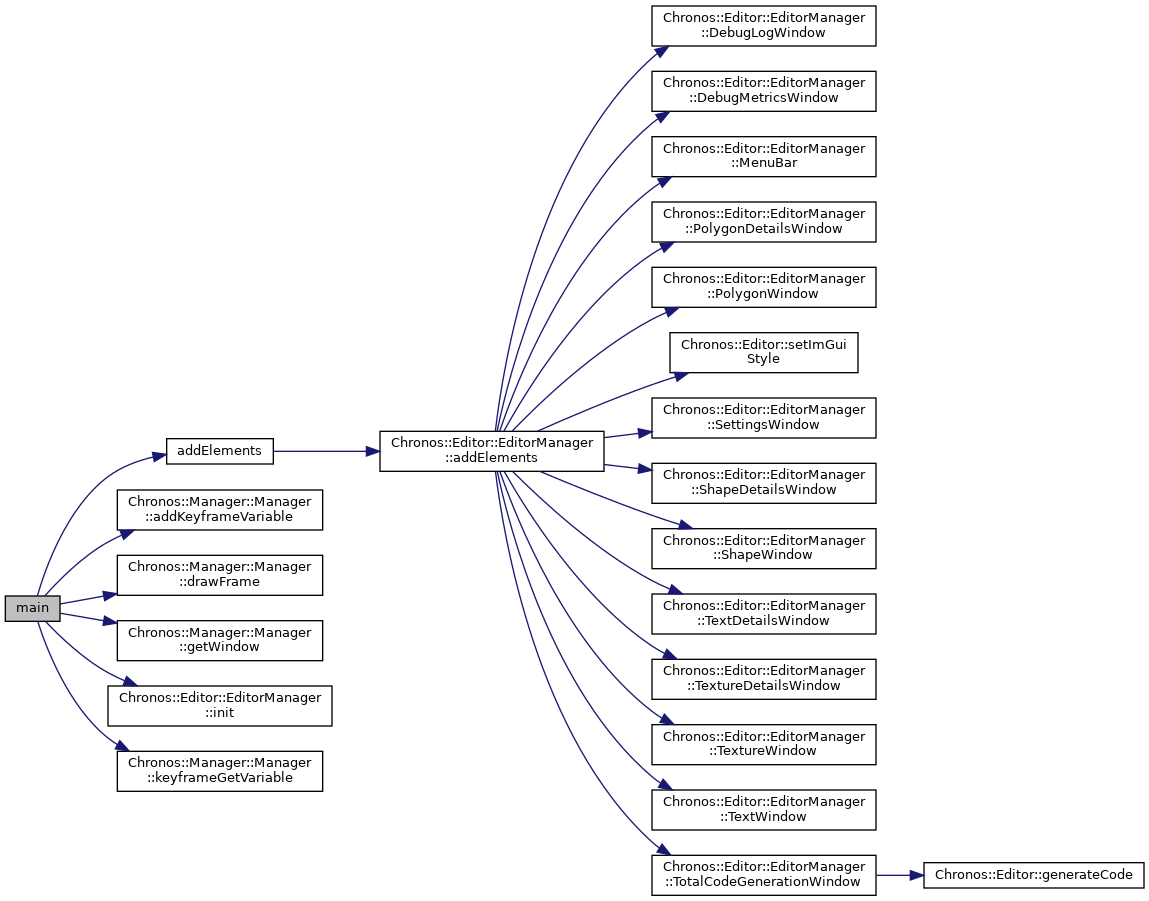
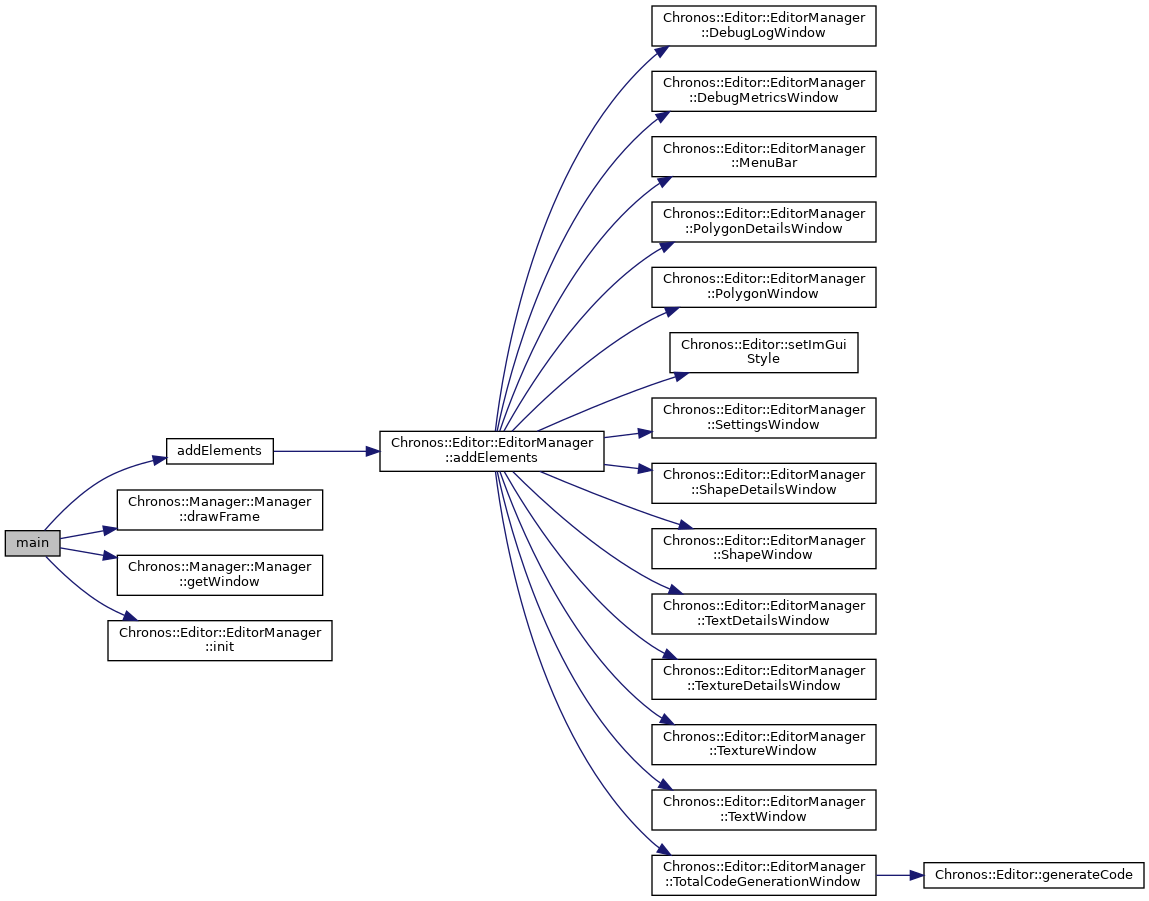
Deploying to gh-pages from @ RahulVadhyar/Chronos@b8f543d790779504aa7e0f5da477bdf2bd4c3c95 🚀

diff --git a/editorMain_8cpp.html b/editorMain_8cpp.html
@@ -256,26 +256,16 @@ Here is the caller graph for this function:</div>
 <div class="line"><a name="l00043"></a><span class="lineno">   43</span>&#160;    <a class="code" href="editorMain_8cpp.html#a13d1c6300fe3c9fe31eebe196e35cd71">editorManager</a>.init(&amp;manager);</div>
 <div class="line"><a name="l00044"></a><span class="lineno">   44</span>&#160;    <a class="code" href="logging_8hpp.html#a5b58fc422e0e0d9227a7ef69954b689a">LOG</a>(3, &quot;EditorMain&quot;, &quot;EditorManager created.&quot;)</div>
 <div class="line"><a name="l00045"></a><span class="lineno">   45</span>&#160; </div>
-<div class="line"><a name="l00046"></a><span class="lineno">   46</span>&#160;    std::vector&lt;std::pair&lt;<span class="keywordtype">float</span>, <span class="keywordtype">float</span>&gt;&gt; keyframes;</div>
-<div class="line"><a name="l00047"></a><span class="lineno">   47</span>&#160;    keyframes.push_back(std::make_pair(0, 300));</div>
-<div class="line"><a name="l00048"></a><span class="lineno">   48</span>&#160;    keyframes.push_back(std::make_pair(1.0, 500));</div>
-<div class="line"><a name="l00049"></a><span class="lineno">   49</span>&#160;    keyframes.push_back(std::make_pair(2.0, 450));</div>
-<div class="line"><a name="l00050"></a><span class="lineno">   50</span>&#160;    keyframes.push_back(std::make_pair(3.0, 300));</div>
-<div class="line"><a name="l00051"></a><span class="lineno">   51</span>&#160; </div>
-<div class="line"><a name="l00052"></a><span class="lineno">   52</span>&#160;    <span class="keywordtype">int</span> keyframeNo = manager.addKeyframeVariable(keyframes);</div>
-<div class="line"><a name="l00053"></a><span class="lineno">   53</span>&#160; </div>
-<div class="line"><a name="l00054"></a><span class="lineno">   54</span>&#160;    while (!glfwWindowShouldClose(manager.getWindow())) {</div>
-<div class="line"><a name="l00055"></a><span class="lineno">   55</span>&#160;        <span class="keywordflow">if</span> (glfwGetKey(manager.getWindow(), GLFW_KEY_ESCAPE) == GLFW_PRESS) {</div>
-<div class="line"><a name="l00056"></a><span class="lineno">   56</span>&#160;            glfwSetWindowShouldClose(manager.getWindow(), <span class="keyword">true</span>);</div>
-<div class="line"><a name="l00057"></a><span class="lineno">   57</span>&#160;        }</div>
-<div class="line"><a name="l00058"></a><span class="lineno">   58</span>&#160;        manager.drawFrame();</div>
-<div class="line"><a name="l00059"></a><span class="lineno">   59</span>&#160;        <a class="code" href="logging_8hpp.html#a5b58fc422e0e0d9227a7ef69954b689a">LOG</a>(4, <span class="stringliteral">&quot;EditorMain&quot;</span>, <span class="stringliteral">&quot;Frame drawn.&quot;</span>)</div>
-<div class="line"><a name="l00060"></a><span class="lineno">   60</span>&#160; </div>
-<div class="line"><a name="l00061"></a><span class="lineno">   61</span>&#160;        <a class="code" href="logging_8hpp.html#a5b58fc422e0e0d9227a7ef69954b689a">LOG</a>(3, &quot;TEST&quot;, &quot;Keyframe value: &quot; + std::to_string(manager.keyframeGetVariable(keyframeNo)));</div>
-<div class="line"><a name="l00062"></a><span class="lineno">   62</span>&#160;    }</div>
-<div class="line"><a name="l00063"></a><span class="lineno">   63</span>&#160;    <a class="code" href="logging_8hpp.html#a5b58fc422e0e0d9227a7ef69954b689a">LOG</a>(2, &quot;EditorMain&quot;, &quot;Exited rendering loop, closing program.&quot;)</div>
-<div class="line"><a name="l00064"></a><span class="lineno">   64</span>&#160;    return 0; </div>
-<div class="line"><a name="l00065"></a><span class="lineno">   65</span>&#160;}</div>
+<div class="line"><a name="l00046"></a><span class="lineno">   46</span>&#160;    while (!glfwWindowShouldClose(manager.getWindow())) {</div>
+<div class="line"><a name="l00047"></a><span class="lineno">   47</span>&#160;        <span class="keywordflow">if</span> (glfwGetKey(manager.getWindow(), GLFW_KEY_ESCAPE) == GLFW_PRESS) {</div>
+<div class="line"><a name="l00048"></a><span class="lineno">   48</span>&#160;            glfwSetWindowShouldClose(manager.getWindow(), <span class="keyword">true</span>);</div>
+<div class="line"><a name="l00049"></a><span class="lineno">   49</span>&#160;        }</div>
+<div class="line"><a name="l00050"></a><span class="lineno">   50</span>&#160;        manager.drawFrame();</div>
+<div class="line"><a name="l00051"></a><span class="lineno">   51</span>&#160;        <a class="code" href="logging_8hpp.html#a5b58fc422e0e0d9227a7ef69954b689a">LOG</a>(4, <span class="stringliteral">&quot;EditorMain&quot;</span>, <span class="stringliteral">&quot;Frame drawn.&quot;</span>)</div>
+<div class="line"><a name="l00052"></a><span class="lineno">   52</span>&#160;    }</div>
+<div class="line"><a name="l00053"></a><span class="lineno">   53</span>&#160;    <a class="code" href="logging_8hpp.html#a5b58fc422e0e0d9227a7ef69954b689a">LOG</a>(2, <span class="stringliteral">&quot;EditorMain&quot;</span>, <span class="stringliteral">&quot;Exited rendering loop, closing program.&quot;</span>)</div>
+<div class="line"><a name="l00054"></a><span class="lineno">   54</span>&#160;    return 0; </div>
+<div class="line"><a name="l00055"></a><span class="lineno">   55</span>&#160;}</div>
 <div class="ttc" id="aclassChronos_1_1Manager_1_1Manager_html"><div class="ttname"><a href="classChronos_1_1Manager_1_1Manager.html">Chronos::Manager::Manager</a></div><div class="ttdoc">The main manager of chronos.</div><div class="ttdef"><b>Definition:</b> <a href="chronos_8hpp_source.html#l00138">chronos.hpp:138</a></div></div>
 <div class="ttc" id="aeditorMain_8cpp_html_a6a215dd7e7955739c214ee50e9b9ad87"><div class="ttname"><a href="editorMain_8cpp.html#a6a215dd7e7955739c214ee50e9b9ad87">addElements</a></div><div class="ttdeci">void addElements()</div><div class="ttdef"><b>Definition:</b> <a href="editorMain_8cpp_source.html#l00028">editorMain.cpp:28</a></div></div>
 <div class="ttc" id="alogging_8hpp_html_a5b58fc422e0e0d9227a7ef69954b689a"><div class="ttname"><a href="logging_8hpp.html#a5b58fc422e0e0d9227a7ef69954b689a">LOG</a></div><div class="ttdeci">#define LOG(LEVEL, CLASS, MESSAGE)</div><div class="ttdef"><b>Definition:</b> <a href="logging_8hpp_source.html#l00035">logging.hpp:35</a></div></div>
@@ -284,19 +274,17 @@ Here is the caller graph for this function:</div>
 <div class="ttc" id="astructChronos_1_1Manager_1_1Initializer_html_a6e5b05085029f176abc15e6338217dbc"><div class="ttname"><a href="structChronos_1_1Manager_1_1Initializer.html#a6e5b05085029f176abc15e6338217dbc">Chronos::Manager::Initializer::WindowWidth</a></div><div class="ttdeci">int WindowWidth</div><div class="ttdef"><b>Definition:</b> <a href="chronos_8hpp_source.html#l00066">chronos.hpp:66</a></div></div>
 <div class="ttc" id="astructChronos_1_1Manager_1_1Initializer_html_ab66ebfa962b94ea624394f3436bb6570"><div class="ttname"><a href="structChronos_1_1Manager_1_1Initializer.html#ab66ebfa962b94ea624394f3436bb6570">Chronos::Manager::Initializer::BackgroundColor</a></div><div class="ttdeci">int BackgroundColor[3]</div><div class="ttdef"><b>Definition:</b> <a href="chronos_8hpp_source.html#l00068">chronos.hpp:68</a></div></div>
 </div><!-- fragment -->
-<p class="reference">References <a class="el" href="editorMain_8cpp_source.html#l00028">addElements()</a>, <a class="el" href="chronos_8hpp_source.html#l00527">Chronos::Manager::Manager::addKeyframeVariable()</a>, <a class="el" href="chronos_8hpp_source.html#l00068">Chronos::Manager::Initializer::BackgroundColor</a>, <a class="el" href="manager_8cpp_source.html#l00054">Chronos::Manager::Manager::drawFrame()</a>, <a class="el" href="editorMain_8cpp_source.html#l00026">editorManager</a>, <a class="el" href="manager_8cpp_source.html#l00027">Chronos::Manager::Manager::getWindow()</a>, <a class="el" href="editorManager_8hpp_source.html#l00029">Chronos::Editor::EditorManager::init()</a>, <a class="el" href="chronos_8hpp_source.html#l00551">Chronos::Manager::Manager::keyframeGetVariable()</a>, <a class="el" href="logging_8hpp_source.html#l00035">LOG</a>, <a class="el" href="chronos_8hpp_source.html#l00067">Chronos::Manager::Initializer::WindowHeight</a>, and <a class="el" href="chronos_8hpp_source.html#l00066">Chronos::Manager::Initializer::WindowWidth</a>.</p>
+<p class="reference">References <a class="el" href="editorMain_8cpp_source.html#l00028">addElements()</a>, <a class="el" href="chronos_8hpp_source.html#l00068">Chronos::Manager::Initializer::BackgroundColor</a>, <a class="el" href="manager_8cpp_source.html#l00054">Chronos::Manager::Manager::drawFrame()</a>, <a class="el" href="editorMain_8cpp_source.html#l00026">editorManager</a>, <a class="el" href="manager_8cpp_source.html#l00027">Chronos::Manager::Manager::getWindow()</a>, <a class="el" href="editorManager_8hpp_source.html#l00029">Chronos::Editor::EditorManager::init()</a>, <a class="el" href="logging_8hpp_source.html#l00035">LOG</a>, <a class="el" href="chronos_8hpp_source.html#l00067">Chronos::Manager::Initializer::WindowHeight</a>, and <a class="el" href="chronos_8hpp_source.html#l00066">Chronos::Manager::Initializer::WindowWidth</a>.</p>
 <div class="dynheader">
 Here is the call graph for this function:</div>
 <div class="dyncontent">
 <div class="center"><img src="editorMain_8cpp_ae66f6b31b5ad750f1fe042a706a4e3d4_cgraph.png" border="0" usemap="#aeditorMain_8cpp_ae66f6b31b5ad750f1fe042a706a4e3d4_cgraph" alt=""/></div>
 <map name="aeditorMain_8cpp_ae66f6b31b5ad750f1fe042a706a4e3d4_cgraph" id="aeditorMain_8cpp_ae66f6b31b5ad750f1fe042a706a4e3d4_cgraph">
-<area shape="rect" title=" " alt="" coords="5,595,60,622"/>
+<area shape="rect" title=" " alt="" coords="5,530,60,557"/>
 <area shape="rect" href="editorMain_8cpp.html#a6a215dd7e7955739c214ee50e9b9ad87" title=" " alt="" coords="167,438,273,465"/>
-<area shape="rect" href="classChronos_1_1Manager_1_1Manager.html#a70d885cb88ec2bf1cd12e62c5c0d4ce7" title=" " alt="" coords="117,489,323,531"/>
-<area shape="rect" href="classChronos_1_1Manager_1_1Manager.html#a633479d3104552a11a4546cbb048b8f8" title="Draws the current frame to the window." alt="" coords="117,555,323,596"/>
-<area shape="rect" href="classChronos_1_1Manager_1_1Manager.html#a248fdc281a1b24ee47fd605ba6c7cd70" title="Gets a reference to the GLFWWindow." alt="" coords="117,620,323,661"/>
-<area shape="rect" href="classChronos_1_1Editor_1_1EditorManager.html#ae28f6a26ba542f66491d5326ad1c7f79" title=" " alt="" coords="108,685,332,727"/>
-<area shape="rect" href="classChronos_1_1Manager_1_1Manager.html#ab4195e415b5ecf1d027da6d138401d20" title=" " alt="" coords="117,751,323,792"/>
+<area shape="rect" href="classChronos_1_1Manager_1_1Manager.html#a633479d3104552a11a4546cbb048b8f8" title="Draws the current frame to the window." alt="" coords="117,489,323,531"/>
+<area shape="rect" href="classChronos_1_1Manager_1_1Manager.html#a248fdc281a1b24ee47fd605ba6c7cd70" title="Gets a reference to the GLFWWindow." alt="" coords="117,555,323,596"/>
+<area shape="rect" href="classChronos_1_1Editor_1_1EditorManager.html#ae28f6a26ba542f66491d5326ad1c7f79" title=" " alt="" coords="108,620,332,661"/>
 <area shape="rect" href="classChronos_1_1Editor_1_1EditorManager.html#a0a83d9d068c5ba9313ee98d5062b469d" title=" " alt="" coords="380,431,604,472"/>
 <area shape="rect" href="classChronos_1_1Editor_1_1EditorManager.html#a9af7c4fe35cefbce32f8aab29442dde8" title=" " alt="" coords="652,5,876,47"/>
 <area shape="rect" href="classChronos_1_1Editor_1_1EditorManager.html#a06155e374e7589b9510f6f9284047920" title=" " alt="" coords="652,71,876,112"/>

diff --git a/editorMain_8cpp_source.html b/editorMain_8cpp_source.html
@@ -133,26 +133,16 @@ $(document).ready(function(){initNavTree('editorMain_8cpp_source.html',''); init
 <div class="line"><a name="l00043"></a><span class="lineno">   43</span>&#160;    <a class="code" href="editorMain_8cpp.html#a13d1c6300fe3c9fe31eebe196e35cd71">editorManager</a>.<a class="code" href="classChronos_1_1Editor_1_1EditorManager.html#ae28f6a26ba542f66491d5326ad1c7f79">init</a>(&amp;manager);</div>
 <div class="line"><a name="l00044"></a><span class="lineno">   44</span>&#160;    <a class="code" href="logging_8hpp.html#a5b58fc422e0e0d9227a7ef69954b689a">LOG</a>(3, <span class="stringliteral">&quot;EditorMain&quot;</span>, <span class="stringliteral">&quot;EditorManager created.&quot;</span>)</div>
 <div class="line"><a name="l00045"></a><span class="lineno">   45</span>&#160; </div>
-<div class="line"><a name="l00046"></a><span class="lineno">   46</span>&#160;    std::vector&lt;std::pair&lt;float, float&gt;&gt; keyframes;</div>
-<div class="line"><a name="l00047"></a><span class="lineno">   47</span>&#160;    keyframes.push_back(std::make_pair(0, 300));</div>
-<div class="line"><a name="l00048"></a><span class="lineno">   48</span>&#160;    keyframes.push_back(std::make_pair(1.0, 500));</div>
-<div class="line"><a name="l00049"></a><span class="lineno">   49</span>&#160;    keyframes.push_back(std::make_pair(2.0, 450));</div>
-<div class="line"><a name="l00050"></a><span class="lineno">   50</span>&#160;    keyframes.push_back(std::make_pair(3.0, 300));</div>
-<div class="line"><a name="l00051"></a><span class="lineno">   51</span>&#160; </div>
-<div class="line"><a name="l00052"></a><span class="lineno">   52</span>&#160;    <span class="keywordtype">int</span> keyframeNo = manager.<a class="code" href="classChronos_1_1Manager_1_1Manager.html#a70d885cb88ec2bf1cd12e62c5c0d4ce7">addKeyframeVariable</a>(keyframes);</div>
-<div class="line"><a name="l00053"></a><span class="lineno">   53</span>&#160; </div>
-<div class="line"><a name="l00054"></a><span class="lineno">   54</span>&#160;    <span class="keywordflow">while</span> (!glfwWindowShouldClose(manager.<a class="code" href="classChronos_1_1Manager_1_1Manager.html#a248fdc281a1b24ee47fd605ba6c7cd70">getWindow</a>())) {</div>
-<div class="line"><a name="l00055"></a><span class="lineno">   55</span>&#160;        <span class="keywordflow">if</span> (glfwGetKey(manager.<a class="code" href="classChronos_1_1Manager_1_1Manager.html#a248fdc281a1b24ee47fd605ba6c7cd70">getWindow</a>(), GLFW_KEY_ESCAPE) == GLFW_PRESS) {</div>
-<div class="line"><a name="l00056"></a><span class="lineno">   56</span>&#160;            glfwSetWindowShouldClose(manager.<a class="code" href="classChronos_1_1Manager_1_1Manager.html#a248fdc281a1b24ee47fd605ba6c7cd70">getWindow</a>(), <span class="keyword">true</span>);</div>
-<div class="line"><a name="l00057"></a><span class="lineno">   57</span>&#160;        }</div>
-<div class="line"><a name="l00058"></a><span class="lineno">   58</span>&#160;        manager.<a class="code" href="classChronos_1_1Manager_1_1Manager.html#a633479d3104552a11a4546cbb048b8f8">drawFrame</a>();</div>
-<div class="line"><a name="l00059"></a><span class="lineno">   59</span>&#160;        <a class="code" href="logging_8hpp.html#a5b58fc422e0e0d9227a7ef69954b689a">LOG</a>(4, <span class="stringliteral">&quot;EditorMain&quot;</span>, <span class="stringliteral">&quot;Frame drawn.&quot;</span>)</div>
-<div class="line"><a name="l00060"></a><span class="lineno">   60</span>&#160; </div>
-<div class="line"><a name="l00061"></a><span class="lineno">   61</span>&#160;        <a class="code" href="logging_8hpp.html#a5b58fc422e0e0d9227a7ef69954b689a">LOG</a>(3, <span class="stringliteral">&quot;TEST&quot;</span>, <span class="stringliteral">&quot;Keyframe value: &quot;</span> + std::to_string(manager.<a class="code" href="classChronos_1_1Manager_1_1Manager.html#ab4195e415b5ecf1d027da6d138401d20">keyframeGetVariable</a>(keyframeNo)));</div>
-<div class="line"><a name="l00062"></a><span class="lineno">   62</span>&#160;    }</div>
-<div class="line"><a name="l00063"></a><span class="lineno">   63</span>&#160;    <a class="code" href="logging_8hpp.html#a5b58fc422e0e0d9227a7ef69954b689a">LOG</a>(2, <span class="stringliteral">&quot;EditorMain&quot;</span>, <span class="stringliteral">&quot;Exited rendering loop, closing program.&quot;</span>)</div>
-<div class="line"><a name="l00064"></a><span class="lineno">   64</span>&#160;    <span class="keywordflow">return</span> 0; </div>
-<div class="line"><a name="l00065"></a><span class="lineno">   65</span>&#160;}</div>
+<div class="line"><a name="l00046"></a><span class="lineno">   46</span>&#160;    <span class="keywordflow">while</span> (!glfwWindowShouldClose(manager.<a class="code" href="classChronos_1_1Manager_1_1Manager.html#a248fdc281a1b24ee47fd605ba6c7cd70">getWindow</a>())) {</div>
+<div class="line"><a name="l00047"></a><span class="lineno">   47</span>&#160;        <span class="keywordflow">if</span> (glfwGetKey(manager.<a class="code" href="classChronos_1_1Manager_1_1Manager.html#a248fdc281a1b24ee47fd605ba6c7cd70">getWindow</a>(), GLFW_KEY_ESCAPE) == GLFW_PRESS) {</div>
+<div class="line"><a name="l00048"></a><span class="lineno">   48</span>&#160;            glfwSetWindowShouldClose(manager.<a class="code" href="classChronos_1_1Manager_1_1Manager.html#a248fdc281a1b24ee47fd605ba6c7cd70">getWindow</a>(), <span class="keyword">true</span>);</div>
+<div class="line"><a name="l00049"></a><span class="lineno">   49</span>&#160;        }</div>
+<div class="line"><a name="l00050"></a><span class="lineno">   50</span>&#160;        manager.<a class="code" href="classChronos_1_1Manager_1_1Manager.html#a633479d3104552a11a4546cbb048b8f8">drawFrame</a>();</div>
+<div class="line"><a name="l00051"></a><span class="lineno">   51</span>&#160;        <a class="code" href="logging_8hpp.html#a5b58fc422e0e0d9227a7ef69954b689a">LOG</a>(4, <span class="stringliteral">&quot;EditorMain&quot;</span>, <span class="stringliteral">&quot;Frame drawn.&quot;</span>)</div>
+<div class="line"><a name="l00052"></a><span class="lineno">   52</span>&#160;    }</div>
+<div class="line"><a name="l00053"></a><span class="lineno">   53</span>&#160;    <a class="code" href="logging_8hpp.html#a5b58fc422e0e0d9227a7ef69954b689a">LOG</a>(2, <span class="stringliteral">&quot;EditorMain&quot;</span>, <span class="stringliteral">&quot;Exited rendering loop, closing program.&quot;</span>)</div>
+<div class="line"><a name="l00054"></a><span class="lineno">   54</span>&#160;    <span class="keywordflow">return</span> 0; </div>
+<div class="line"><a name="l00055"></a><span class="lineno">   55</span>&#160;}</div>
 <div class="ttc" id="achronos_8hpp_html"><div class="ttname"><a href="chronos_8hpp.html">chronos.hpp</a></div><div class="ttdoc">Main API for chronos. Any applications should include this file.</div></div>
 <div class="ttc" id="aclassChronos_1_1Editor_1_1EditorManager_html"><div class="ttname"><a href="classChronos_1_1Editor_1_1EditorManager.html">Chronos::Editor::EditorManager</a></div><div class="ttdef"><b>Definition:</b> <a href="editorManager_8hpp_source.html#l00027">editorManager.hpp:27</a></div></div>
 <div class="ttc" id="aclassChronos_1_1Editor_1_1EditorManager_html_a0a83d9d068c5ba9313ee98d5062b469d"><div class="ttname"><a href="classChronos_1_1Editor_1_1EditorManager.html#a0a83d9d068c5ba9313ee98d5062b469d">Chronos::Editor::EditorManager::addElements</a></div><div class="ttdeci">void addElements()</div><div class="ttdef"><b>Definition:</b> <a href="editorManager_8cpp_source.html#l00030">editorManager.cpp:30</a></div></div>
@@ -160,8 +150,6 @@ $(document).ready(function(){initNavTree('editorMain_8cpp_source.html',''); init
 <div class="ttc" id="aclassChronos_1_1Manager_1_1Manager_html"><div class="ttname"><a href="classChronos_1_1Manager_1_1Manager.html">Chronos::Manager::Manager</a></div><div class="ttdoc">The main manager of chronos.</div><div class="ttdef"><b>Definition:</b> <a href="chronos_8hpp_source.html#l00138">chronos.hpp:138</a></div></div>
 <div class="ttc" id="aclassChronos_1_1Manager_1_1Manager_html_a248fdc281a1b24ee47fd605ba6c7cd70"><div class="ttname"><a href="classChronos_1_1Manager_1_1Manager.html#a248fdc281a1b24ee47fd605ba6c7cd70">Chronos::Manager::Manager::getWindow</a></div><div class="ttdeci">GLFWwindow * getWindow()</div><div class="ttdoc">Gets a reference to the GLFWWindow.</div><div class="ttdef"><b>Definition:</b> <a href="manager_8cpp_source.html#l00027">manager.cpp:27</a></div></div>
 <div class="ttc" id="aclassChronos_1_1Manager_1_1Manager_html_a633479d3104552a11a4546cbb048b8f8"><div class="ttname"><a href="classChronos_1_1Manager_1_1Manager.html#a633479d3104552a11a4546cbb048b8f8">Chronos::Manager::Manager::drawFrame</a></div><div class="ttdeci">void drawFrame()</div><div class="ttdoc">Draws the current frame to the window.</div><div class="ttdef"><b>Definition:</b> <a href="manager_8cpp_source.html#l00054">manager.cpp:54</a></div></div>
-<div class="ttc" id="aclassChronos_1_1Manager_1_1Manager_html_a70d885cb88ec2bf1cd12e62c5c0d4ce7"><div class="ttname"><a href="classChronos_1_1Manager_1_1Manager.html#a70d885cb88ec2bf1cd12e62c5c0d4ce7">Chronos::Manager::Manager::addKeyframeVariable</a></div><div class="ttdeci">int addKeyframeVariable(std::vector&lt; std::pair&lt; float, float &gt;&gt; keyframes)</div><div class="ttdef"><b>Definition:</b> <a href="chronos_8hpp_source.html#l00527">chronos.hpp:527</a></div></div>
-<div class="ttc" id="aclassChronos_1_1Manager_1_1Manager_html_ab4195e415b5ecf1d027da6d138401d20"><div class="ttname"><a href="classChronos_1_1Manager_1_1Manager.html#ab4195e415b5ecf1d027da6d138401d20">Chronos::Manager::Manager::keyframeGetVariable</a></div><div class="ttdeci">float keyframeGetVariable(int keyframeNo)</div><div class="ttdef"><b>Definition:</b> <a href="chronos_8hpp_source.html#l00551">chronos.hpp:551</a></div></div>
 <div class="ttc" id="aeditorMain_8cpp_html_a13d1c6300fe3c9fe31eebe196e35cd71"><div class="ttname"><a href="editorMain_8cpp.html#a13d1c6300fe3c9fe31eebe196e35cd71">editorManager</a></div><div class="ttdeci">Chronos::Editor::EditorManager editorManager</div><div class="ttdef"><b>Definition:</b> <a href="editorMain_8cpp_source.html#l00026">editorMain.cpp:26</a></div></div>
 <div class="ttc" id="aeditorMain_8cpp_html_a6a215dd7e7955739c214ee50e9b9ad87"><div class="ttname"><a href="editorMain_8cpp.html#a6a215dd7e7955739c214ee50e9b9ad87">addElements</a></div><div class="ttdeci">void addElements()</div><div class="ttdef"><b>Definition:</b> <a href="editorMain_8cpp_source.html#l00028">editorMain.cpp:28</a></div></div>
 <div class="ttc" id="aeditorMain_8cpp_html_ae66f6b31b5ad750f1fe042a706a4e3d4"><div class="ttname"><a href="editorMain_8cpp.html#ae66f6b31b5ad750f1fe042a706a4e3d4">main</a></div><div class="ttdeci">int main()</div><div class="ttdef"><b>Definition:</b> <a href="editorMain_8cpp_source.html#l00032">editorMain.cpp:32</a></div></div>

diff --git a/classChronos_1_1Manager_1_1Manager.html b/classChronos_1_1Manager_1_1Manager.html
@@ -333,15 +333,6 @@ Private Attributes</h2></td></tr>
 <div class="ttc" id="aclassChronos_1_1Manager_1_1Manager_html_a0aea503d29edecc626c6a17f46b09840"><div class="ttname"><a href="classChronos_1_1Manager_1_1Manager.html#a0aea503d29edecc626c6a17f46b09840">Chronos::Manager::Manager::animManager</a></div><div class="ttdeci">Chronos::Animation::AnimationManager animManager</div><div class="ttdef"><b>Definition:</b> <a href="chronos_8hpp_source.html#l00583">chronos.hpp:583</a></div></div>
 </div><!-- fragment -->
 <p class="reference">References <a class="el" href="chronos_8hpp_source.html#l00583">animManager</a>.</p>
-<div class="dynheader">
-Here is the caller graph for this function:</div>
-<div class="dyncontent">
-<div class="center"><img src="classChronos_1_1Manager_1_1Manager_a70d885cb88ec2bf1cd12e62c5c0d4ce7_icgraph.png" border="0" usemap="#aclassChronos_1_1Manager_1_1Manager_a70d885cb88ec2bf1cd12e62c5c0d4ce7_icgraph" alt=""/></div>
-<map name="aclassChronos_1_1Manager_1_1Manager_a70d885cb88ec2bf1cd12e62c5c0d4ce7_icgraph" id="aclassChronos_1_1Manager_1_1Manager_a70d885cb88ec2bf1cd12e62c5c0d4ce7_icgraph">
-<area shape="rect" title=" " alt="" coords="108,5,313,47"/>
-<area shape="rect" href="editorMain_8cpp.html#ae66f6b31b5ad750f1fe042a706a4e3d4" title=" " alt="" coords="5,13,60,39"/>
-</map>
-</div>
 
 </div>
 </div>
@@ -1402,15 +1393,6 @@ Here is the caller graph for this function:</div>
 <div class="line"><a name="l00553"></a><span class="lineno">  553</span>&#160;        }</div>
 </div><!-- fragment -->
 <p class="reference">References <a class="el" href="chronos_8hpp_source.html#l00583">animManager</a>.</p>
-<div class="dynheader">
-Here is the caller graph for this function:</div>
-<div class="dyncontent">
-<div class="center"><img src="classChronos_1_1Manager_1_1Manager_ab4195e415b5ecf1d027da6d138401d20_icgraph.png" border="0" usemap="#aclassChronos_1_1Manager_1_1Manager_ab4195e415b5ecf1d027da6d138401d20_icgraph" alt=""/></div>
-<map name="aclassChronos_1_1Manager_1_1Manager_ab4195e415b5ecf1d027da6d138401d20_icgraph" id="aclassChronos_1_1Manager_1_1Manager_ab4195e415b5ecf1d027da6d138401d20_icgraph">
-<area shape="rect" title=" " alt="" coords="108,5,313,47"/>
-<area shape="rect" href="editorMain_8cpp.html#ae66f6b31b5ad750f1fe042a706a4e3d4" title=" " alt="" coords="5,13,60,39"/>
-</map>
-</div>
 
 </div>
 </div>
